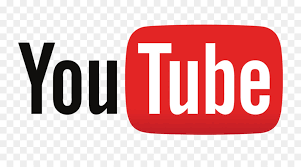
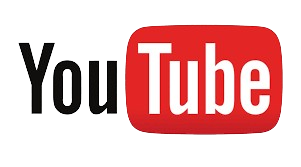
Imagenes
Sacque el fondo de las imagenes

diff --git a/psicopedagogia/src/Nosotros.vue b/psicopedagogia/src/Nosotros.vue
@@ -20,12 +20,12 @@
     </div>
     
     <footer>
-      <img src="/src/assets/imagen/rocas.jpg" alt="Image Description" class="footer-img">
+      <img src="/src/assets/imagen/rocas.png" alt="Image Description" class="footer-img">
   <div class="footer-container">
     <table class="footer-table">
       <tr>
         <td>
-          <a :href="paginaNosotros.facebook"><img style="width: 100px;" src="/src/assets/imagen/facebook.jpg" alt="Imagen del logo"></a>
+          <a :href="paginaNosotros.facebook"><img style="width: 200px;" src="/src/assets/imagen/facebook.png" alt="Imagen del logo"></a>
         </td>
         <td>
           <p>Psicopedagogía UCB La Paz</p>
@@ -33,7 +33,7 @@
       </tr>
       <tr>
         <td>
-          <a :href="paginaNosotros.insta"><img style="width: 100px;"  src="/src/assets/imagen/insta.jpg" alt="Imagen del logo"></a>
+          <a :href="paginaNosotros.insta"><img style="width: 200px;"  src="/src/assets/imagen/insta.png" alt="Imagen del logo"></a>
         </td>
         <td>
           <p>ucb.psp</p>
@@ -41,7 +41,7 @@
       </tr>
       <tr>
         <td>
-          <a :href="paginaNosotros.youtube"><img style="width: 90px;" src="/src/assets/imagen/yt.png" alt="Imagen del logo"></a>
+          <a :href="paginaNosotros.youtube"><img style="width: 190px;" src="/src/assets/imagen/yt.png" alt="Imagen del logo"></a>
         </td>
         <td>
           <p>canal de youtube</p>
@@ -49,7 +49,7 @@
       </tr>
       <tr>
         <td>
-          <a :href="paginaNosotros.tiktok"><img style="width: 100px;" src="/src/assets/imagen/tiktok.jpg" alt="Imagen del logo"></a>
+          <a :href="paginaNosotros.tiktok"><img style="width: 200px;" src="/src/assets/imagen/tiktok.png" alt="Imagen del logo"></a>
         </td>
         <td>
           <p>psp.ucb.lapaz</p>

diff --git a/psicopedagogia/index.html b/psicopedagogia/index.html
@@ -9,7 +9,7 @@
   </head>
   <body>
     <header>
-      <a href=""><img src="" alt="Imagen del logo">
+      <a href=""><img src="/src/assets/imagen/logo.png" alt="Imagen del logo" style="width: 5%;left:2%">
       
       
       
